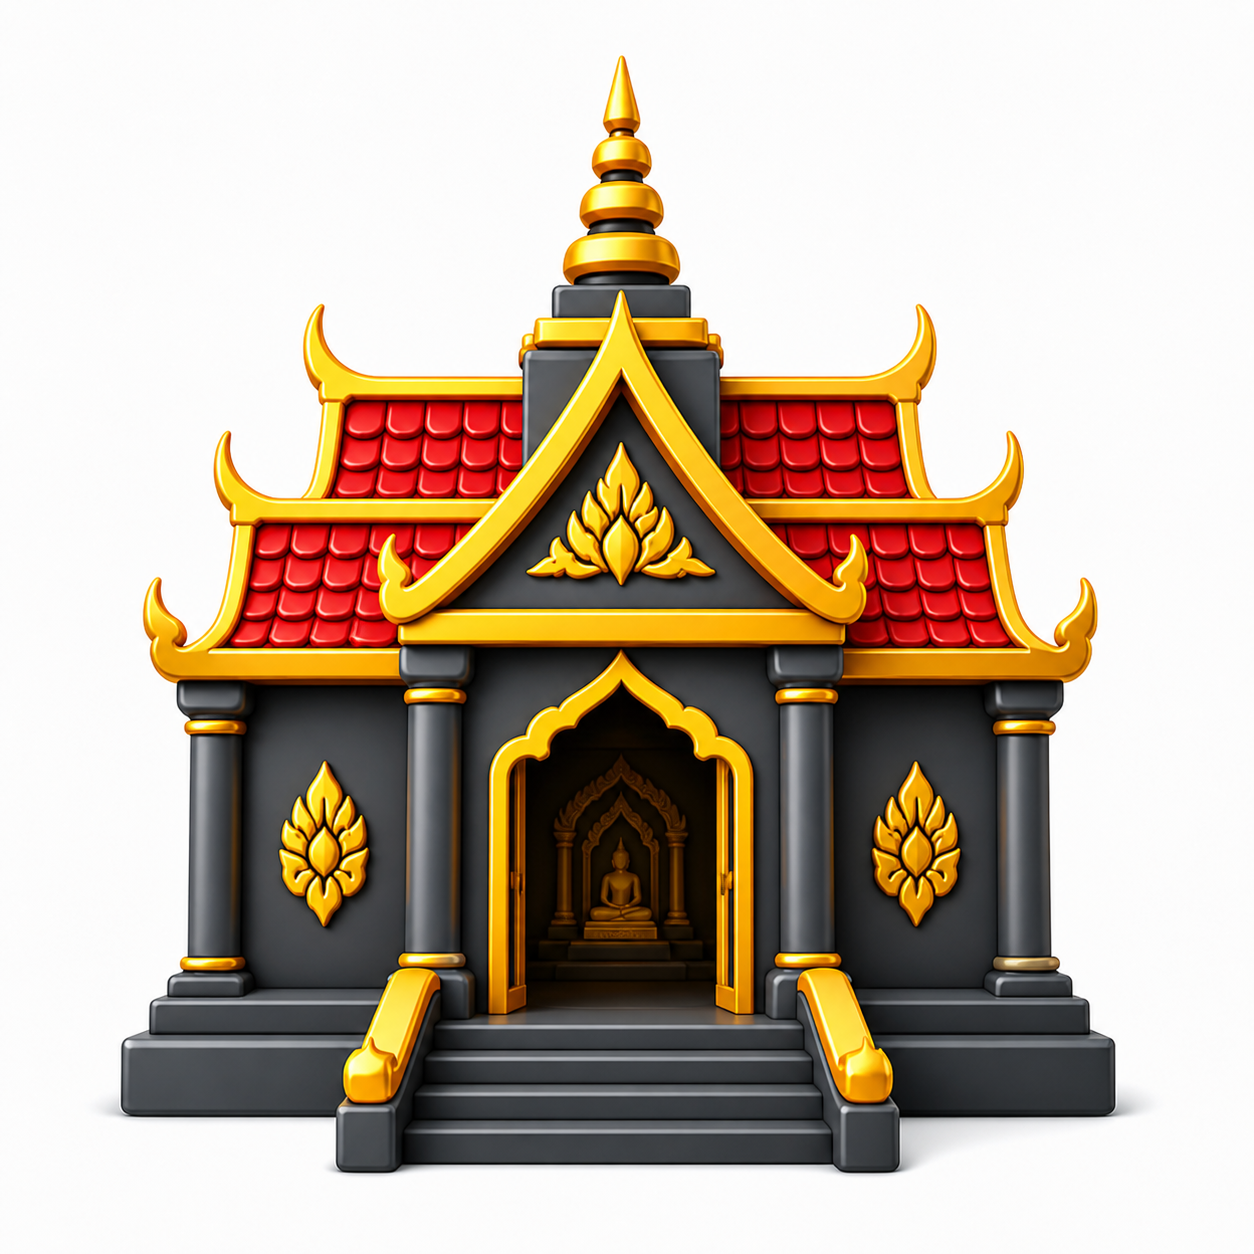
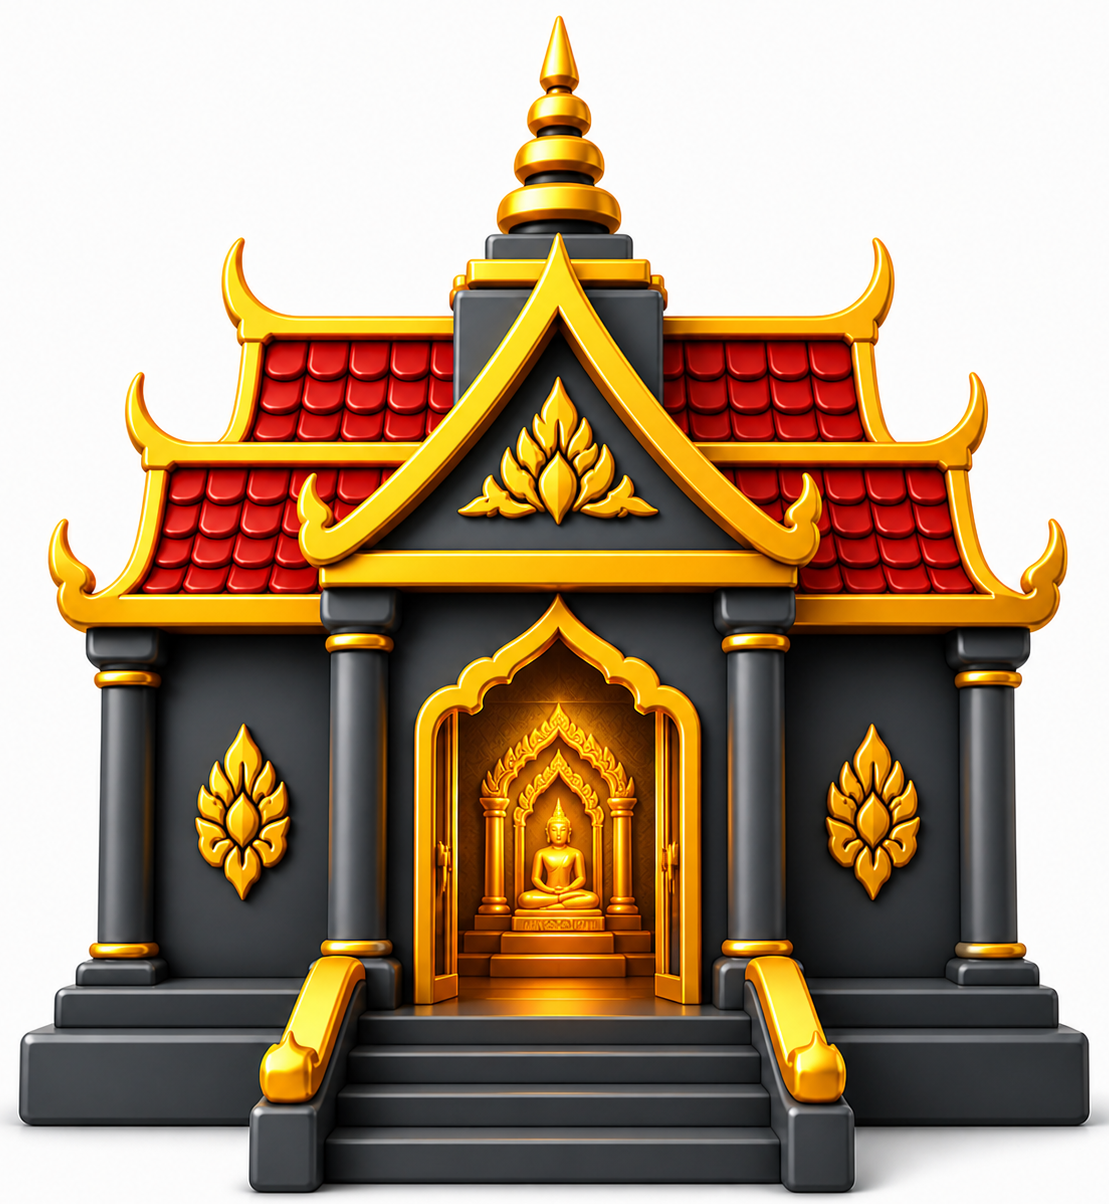
a

diff --git a/app/(tabs)/index.tsx b/app/(tabs)/index.tsx
@@ -322,7 +322,7 @@ const styles = StyleSheet.create({
     justifyContent: 'space-between',
     alignItems: 'center',
     paddingHorizontal: 24,
-    marginBottom: 20,
+    marginBottom: 10,
   },
   userInfo: {
     flexDirection: 'row',
@@ -436,7 +436,7 @@ const styles = StyleSheet.create({
     borderRadius: 28,
     flexDirection: 'row',
     overflow: 'hidden',
-    marginBottom: 17,
+    marginBottom: 10,
     borderWidth: 1,
     borderColor: 'rgba(255,255,255,0.5)',
   },
@@ -491,25 +491,27 @@ const styles = StyleSheet.create({
     justifyContent: 'space-between',
     alignItems: 'center',
     paddingHorizontal: 20,
-    marginBottom: 12,
+    marginTop: 0,
+    marginBottom: 6,
+    paddingVertical: 8,
   },
   sectionTitle: {
-    fontSize: 17,
+    fontSize: 22,
     fontWeight: '900',
     color: '#1E293B',
-    lineHeight: 22,
-    paddingBottom: 0,
+    lineHeight: 30,
+    paddingBottom: 4,
   },
   viewAllText: {
     color: '#64748B',
-    fontSize: 13,
+    fontSize: 14,
     fontWeight: '700',
   },
   gridContainer: {
     flexDirection: 'row',
     flexWrap: 'wrap',
     paddingHorizontal: 16,
-    marginBottom: 10,
+    marginBottom: 4,
   },
   gridItemQuarter: {
     width: '25%',
@@ -596,7 +598,8 @@ const styles = StyleSheet.create({
     elevation: 4,
   },
   cardImageContainer: {
-    height: 165,
+    width: '100%',
+    aspectRatio: 16 / 10,
     position: 'relative',
     overflow: 'hidden',
     borderTopLeftRadius: 20,